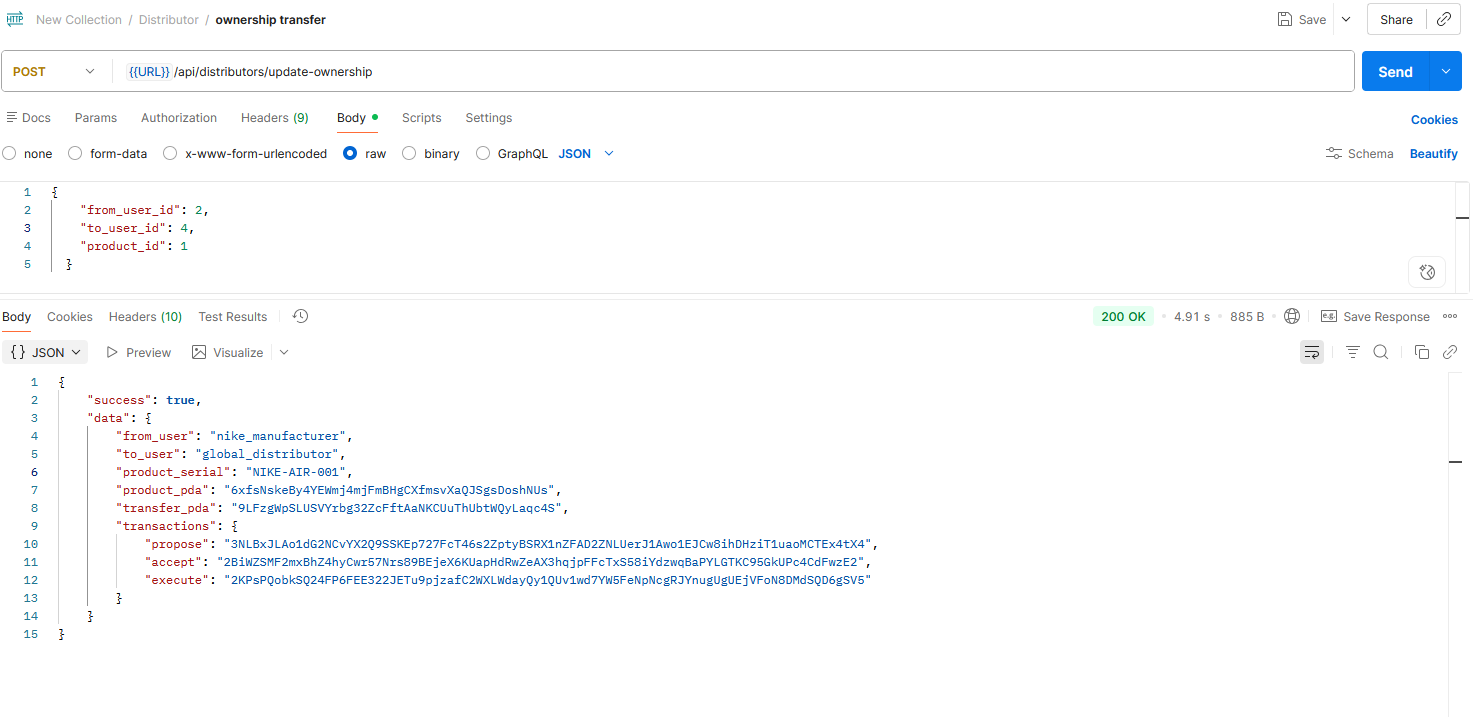
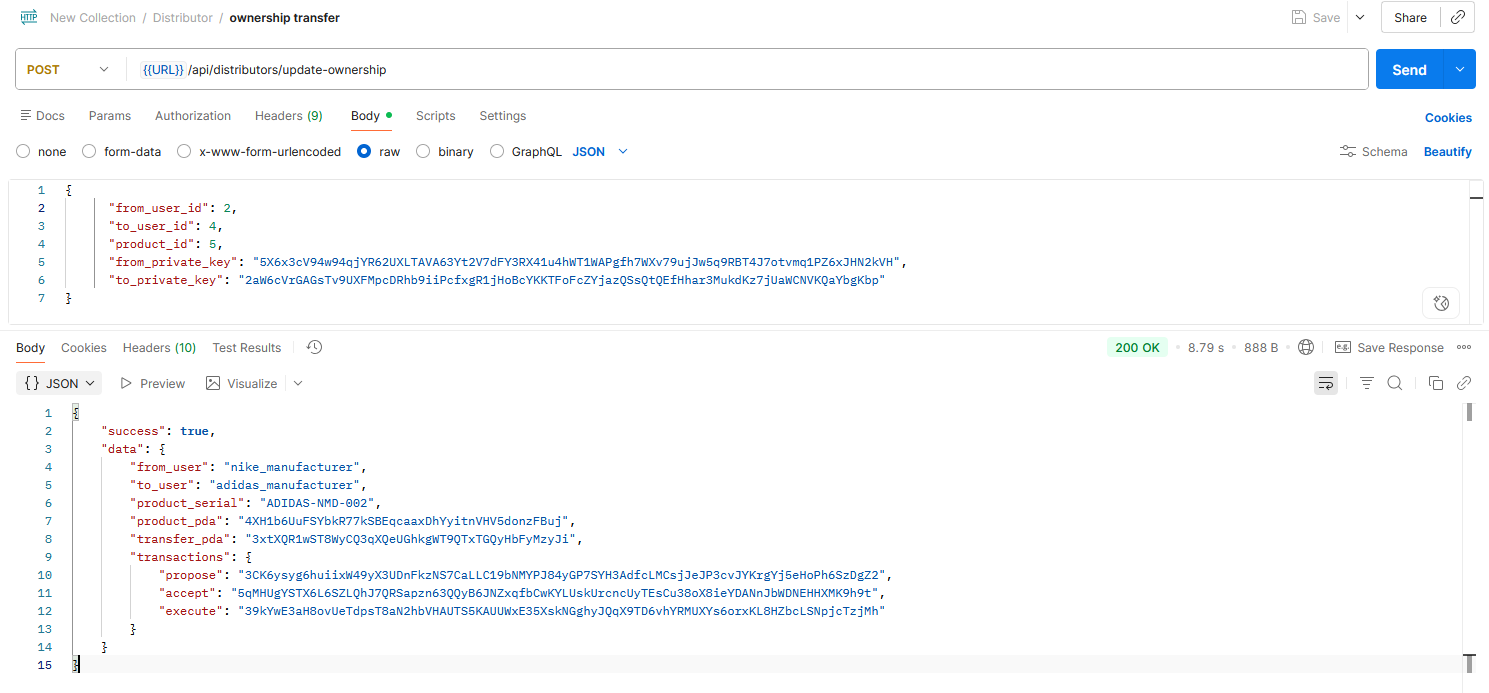
ownership transfer done

diff --git a/backend/src/controller/DistributorController.ts b/backend/src/controller/DistributorController.ts
@@ -310,18 +310,18 @@ class DistributorController {
     }
 
     async updateOwnership(req: Request, res: Response) {
-        const { from_user_id, to_user_id, product_id } = req.body;
+        const { from_user_id, to_user_id, product_id, from_private_key, to_private_key } = req.body;
 
-        if (!from_user_id || !to_user_id || !product_id) {
+        if (!from_user_id || !to_user_id || !product_id || !from_private_key || !to_private_key) {
             return res.status(400).json({
                 success: false,
-                error: "Missing required fields: from_user_id, to_user_id, product_id"
+                error: "Missing required fields: from_user_id, to_user_id, product_id, from_private_key, to_private_key"
             });
         }
 
         try {
 
-            // 1. Get users and product from database
+            // 1. Get users and product from database (for record keeping)
             const fromUser = await DistributorEntity.getUserById(from_user_id);
             const toUser = await DistributorEntity.getUserById(to_user_id);
             const product = await DistributorEntity.getProductById(product_id);
@@ -341,17 +341,10 @@ class DistributorController {
                 });
             }
 
-            // 2. Create keypairs
-            // TODO: Decryption
-            // const fromPrivateKey = await decrypt(fromUser.private_key);
-            // const toPrivateKey = await decrypt(toUser.private_key);
-            // const fromKeypair = Keypair.fromSecretKey(bs58.decode(fromPrivateKey));
-            // const toKeypair = Keypair.fromSecretKey(bs58.decode(toPrivateKey));
-
-            const fromKeypair = Keypair.fromSecretKey(bs58.decode(fromUser.private_key));
-            const toKeypair = Keypair.fromSecretKey(bs58.decode(toUser.private_key));
-            
-            const toPublicKey = new PublicKey(toUser.public_key);
+            // 2. Create keypairs from provided private keys
+            const fromKeypair = Keypair.fromSecretKey(bs58.decode(from_private_key));
+            const toKeypair = Keypair.fromSecretKey(bs58.decode(to_private_key));
+            const toPublicKey = toKeypair.publicKey;
 
 
             // 3. Get or derive product PDA
@@ -388,7 +381,7 @@ class DistributorController {
             let fromBalance = await connection.getBalance(fromKeypair.publicKey);
             if (fromBalance < minBalance) {
                 try {
-                    await airdropSol(fromUser.private_key, 0.5 * 1e9);
+                    await airdropSol(from_private_key, 0.5 * 1e9);
                     await new Promise(resolve => setTimeout(resolve, 1000));
                     fromBalance = await connection.getBalance(fromKeypair.publicKey);
                 } catch (e: any) {}
@@ -404,7 +397,7 @@ class DistributorController {
             let toBalance = await connection.getBalance(toKeypair.publicKey);
             if (toBalance < minBalance) {
                 try {
-                    await airdropSol(toUser.private_key, 0.5 * 1e9);
+                    await airdropSol(to_private_key, 0.5 * 1e9);
                     await new Promise(resolve => setTimeout(resolve, 1000));
                     toBalance = await connection.getBalance(toKeypair.publicKey);
                 } catch (e: any) {}
@@ -492,9 +485,9 @@ class DistributorController {
                 tx_hash: executeTx,
                 prev_tx_hash: prev_owner_hash!,
                 from_user_id: from_user_id,
-                from_public_key: fromUser.public_key,
+                from_public_key: fromKeypair.publicKey.toBase58(),
                 to_user_id: to_user_id,
-                to_public_key: toUser.public_key,
+                to_public_key: toKeypair.publicKey.toBase58(),
                 product_id: product_id,
                 block_slot: blockSlot,
                 created_on: current_date
@@ -504,7 +497,7 @@ class DistributorController {
 
             const new_ownership: ownership = {
                 owner_id: to_user_id,
-                owner_public_key: toUser.public_key,
+                owner_public_key: toKeypair.publicKey.toBase58(),
                 product_id: product_id,
                 start_on: new Date(),
                 end_on: null,
